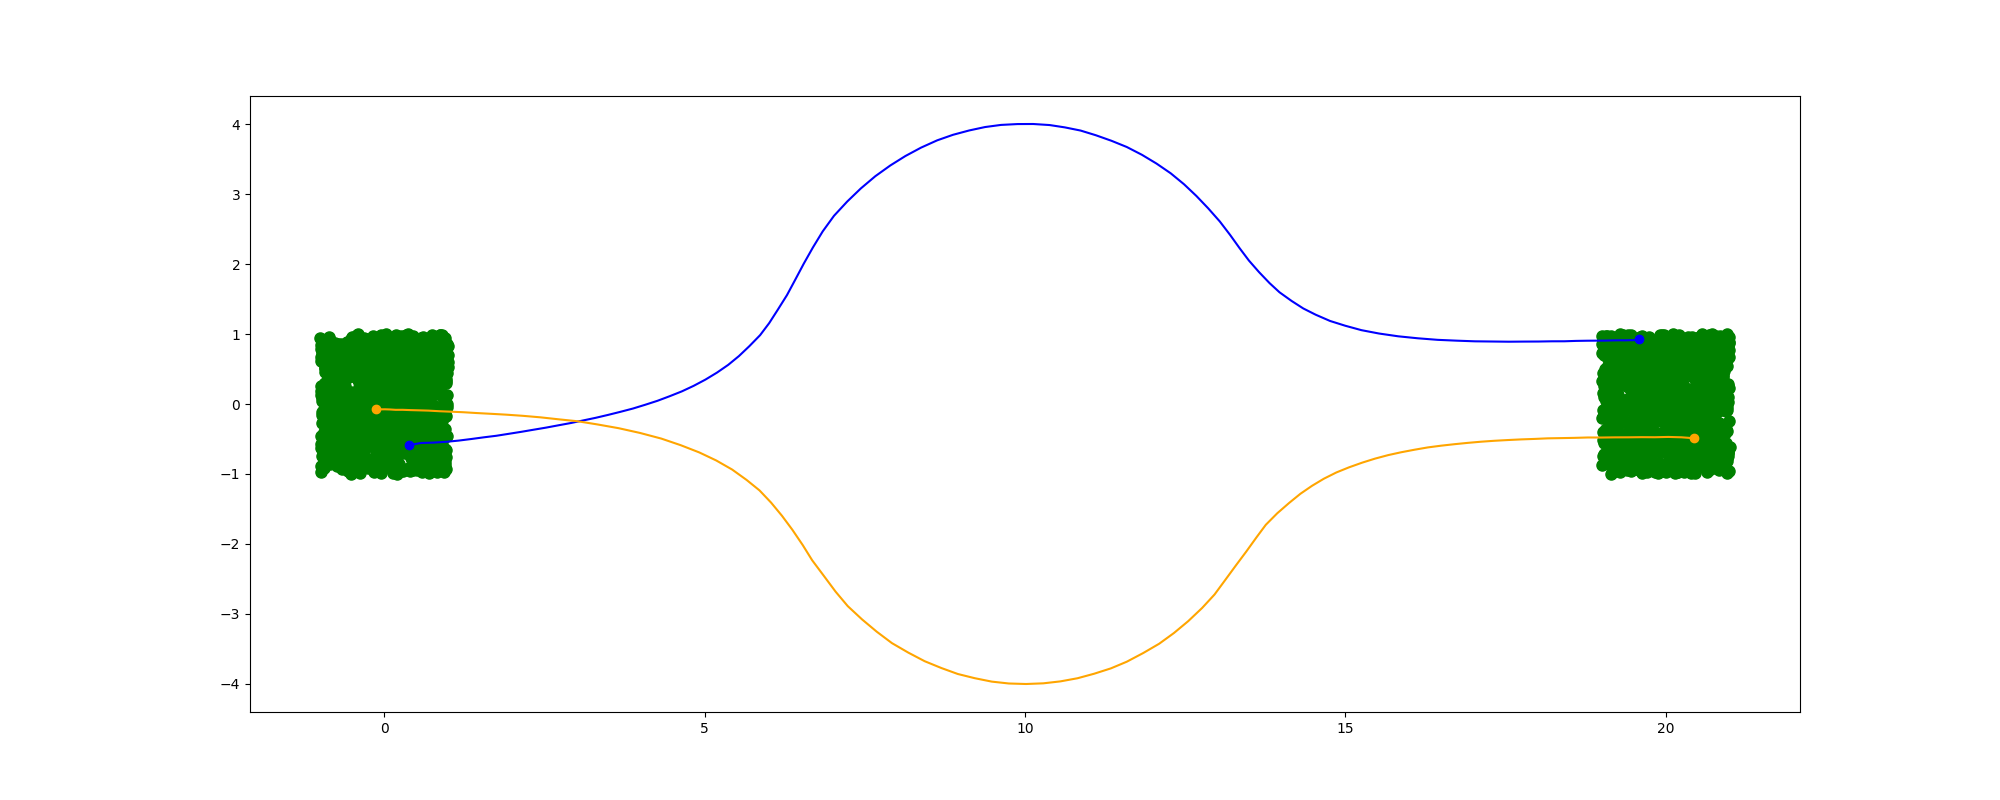
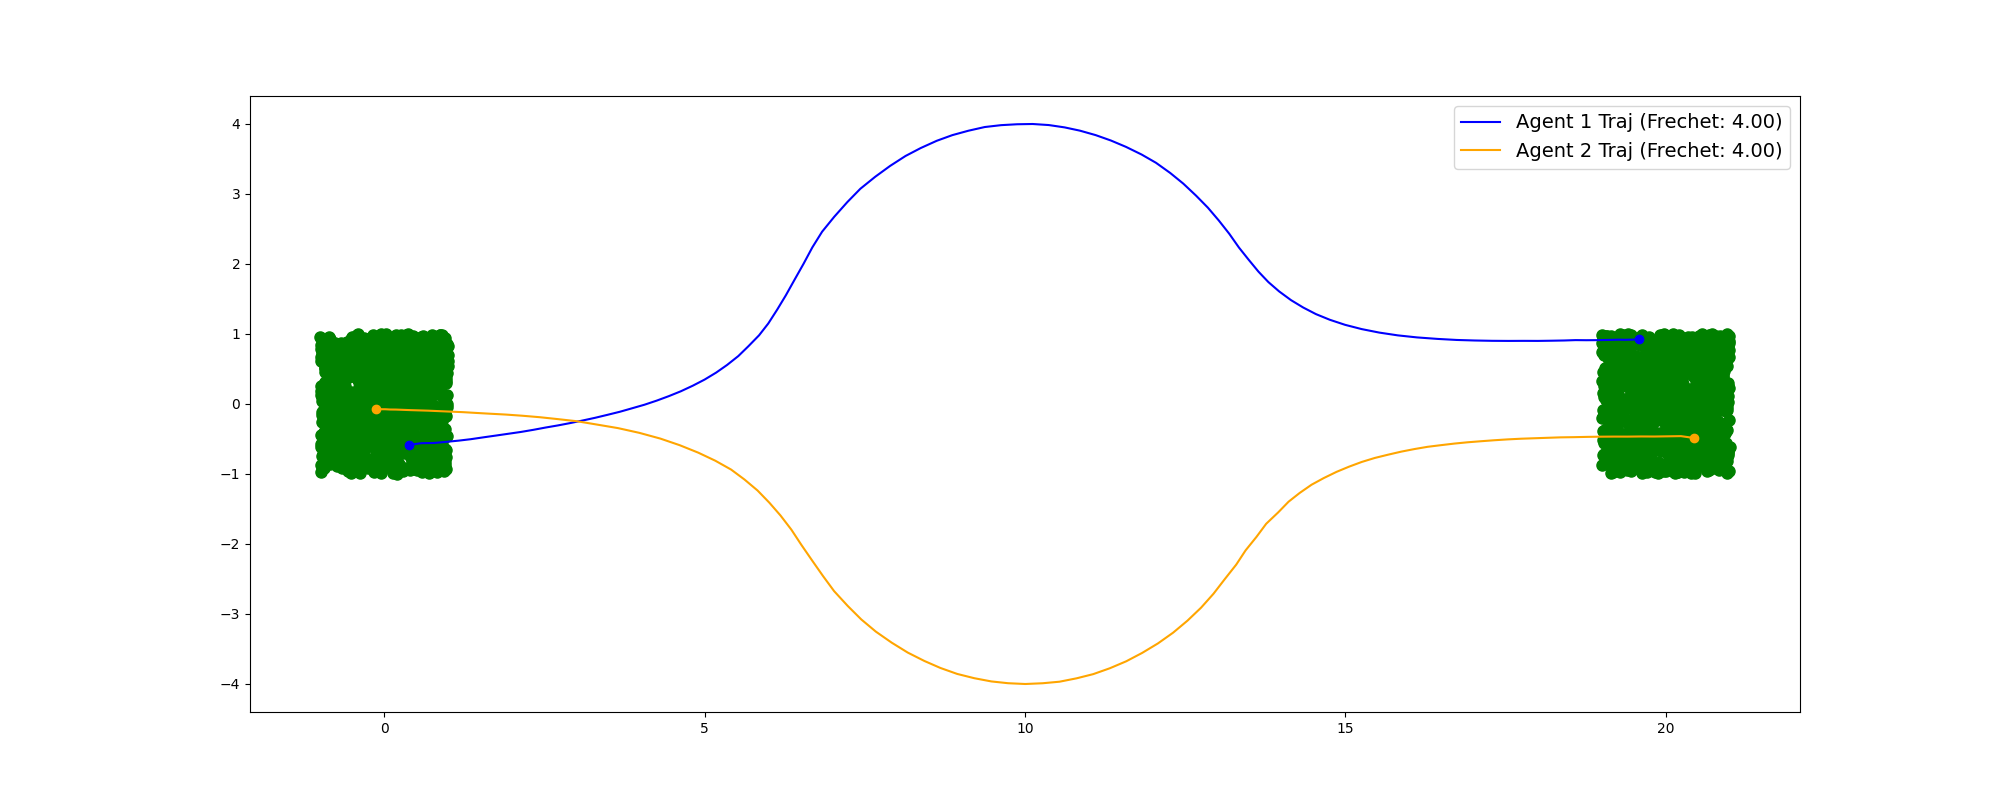
implemented frechet distance metric into conditional code

Changed region(s): [[0.744, 0.125, 0.899, 0.2188], [0.713, 0.5312, 0.837, 0.5625], [0.682, 0.4062, 0.806, 0.4375]]

diff --git a/conditional/conditional_training.py b/conditional/conditional_training.py
@@ -3,6 +3,8 @@ import numpy as np
 from utils import Normalizer, set_seed
 from conditional_Action_DiT import Conditional_ODE, Conditional_Planner
 import matplotlib.pyplot as plt
+from discrete import *
+import sys
 
 device = torch.device("cuda" if torch.cuda.is_available() else "cpu")
 
@@ -91,6 +93,10 @@ obs_temp_tensor = torch.FloatTensor(obs_temp).to(device)  # ensure it's a tensor
 attr_test = obs_temp_tensor
 
 trajectory = trajectory * std + mean
+ref = np.mean(trajectory, axis=0)
+ref_agent1 = ref[:, 4:6]
+ref_agent2 = ref[:, 7:9]
+
 for i in range(10):
     attr_t = attr_test[i*10].unsqueeze(0)
     attr_n = attr_t.cpu().detach().numpy()[0]
@@ -102,6 +108,15 @@ for i in range(10):
 
     sampled = sampled.cpu().detach().numpy()
     sampled = sampled * std + mean
+    test = np.mean(sampled, axis=0)
+    test_agent1 = test[:, 4:6]
+    test_agent2 = test[:, 7:9]
+
+    sys.setrecursionlimit(10000)
+    fast_frechet = FastDiscreteFrechetMatrix(euclidean)
+    frechet1 = fast_frechet.distance(ref_agent1,test_agent1)
+    frechet2 = fast_frechet.distance(ref_agent2,test_agent2)
+    print(frechet1, frechet2)
 
     init_state = attr_n[:10]    # shape (10,)
     final_state = attr_n[10:]   # shape (10,)
@@ -119,8 +134,9 @@ for i in range(10):
     plt.plot(attr_n[7], attr_n[8], 'o', color='orange')
     plt.plot(attr_n[14], attr_n[15], 'bo')
     plt.plot(attr_n[17], attr_n[18], 'o', color='orange')
-    plt.plot(sampled[0, :, 4], sampled[0, :, 5], color='blue')
-    plt.plot(sampled[0, :, 7], sampled[0, :, 8], color='orange')
+    plt.plot(sampled[0, :, 4], sampled[0, :, 5], color='blue', label=f"Agent 1 Traj (Frechet: {frechet1:.2f})")
+    plt.plot(sampled[0, :, 7], sampled[0, :, 8], color='orange', label=f"Agent 2 Traj (Frechet: {frechet2:.2f})")
+    plt.legend(loc="upper right", fontsize=14)
     plt.savefig("figs/noise1_vary0.05/plot%s.png" % i)
 
 
